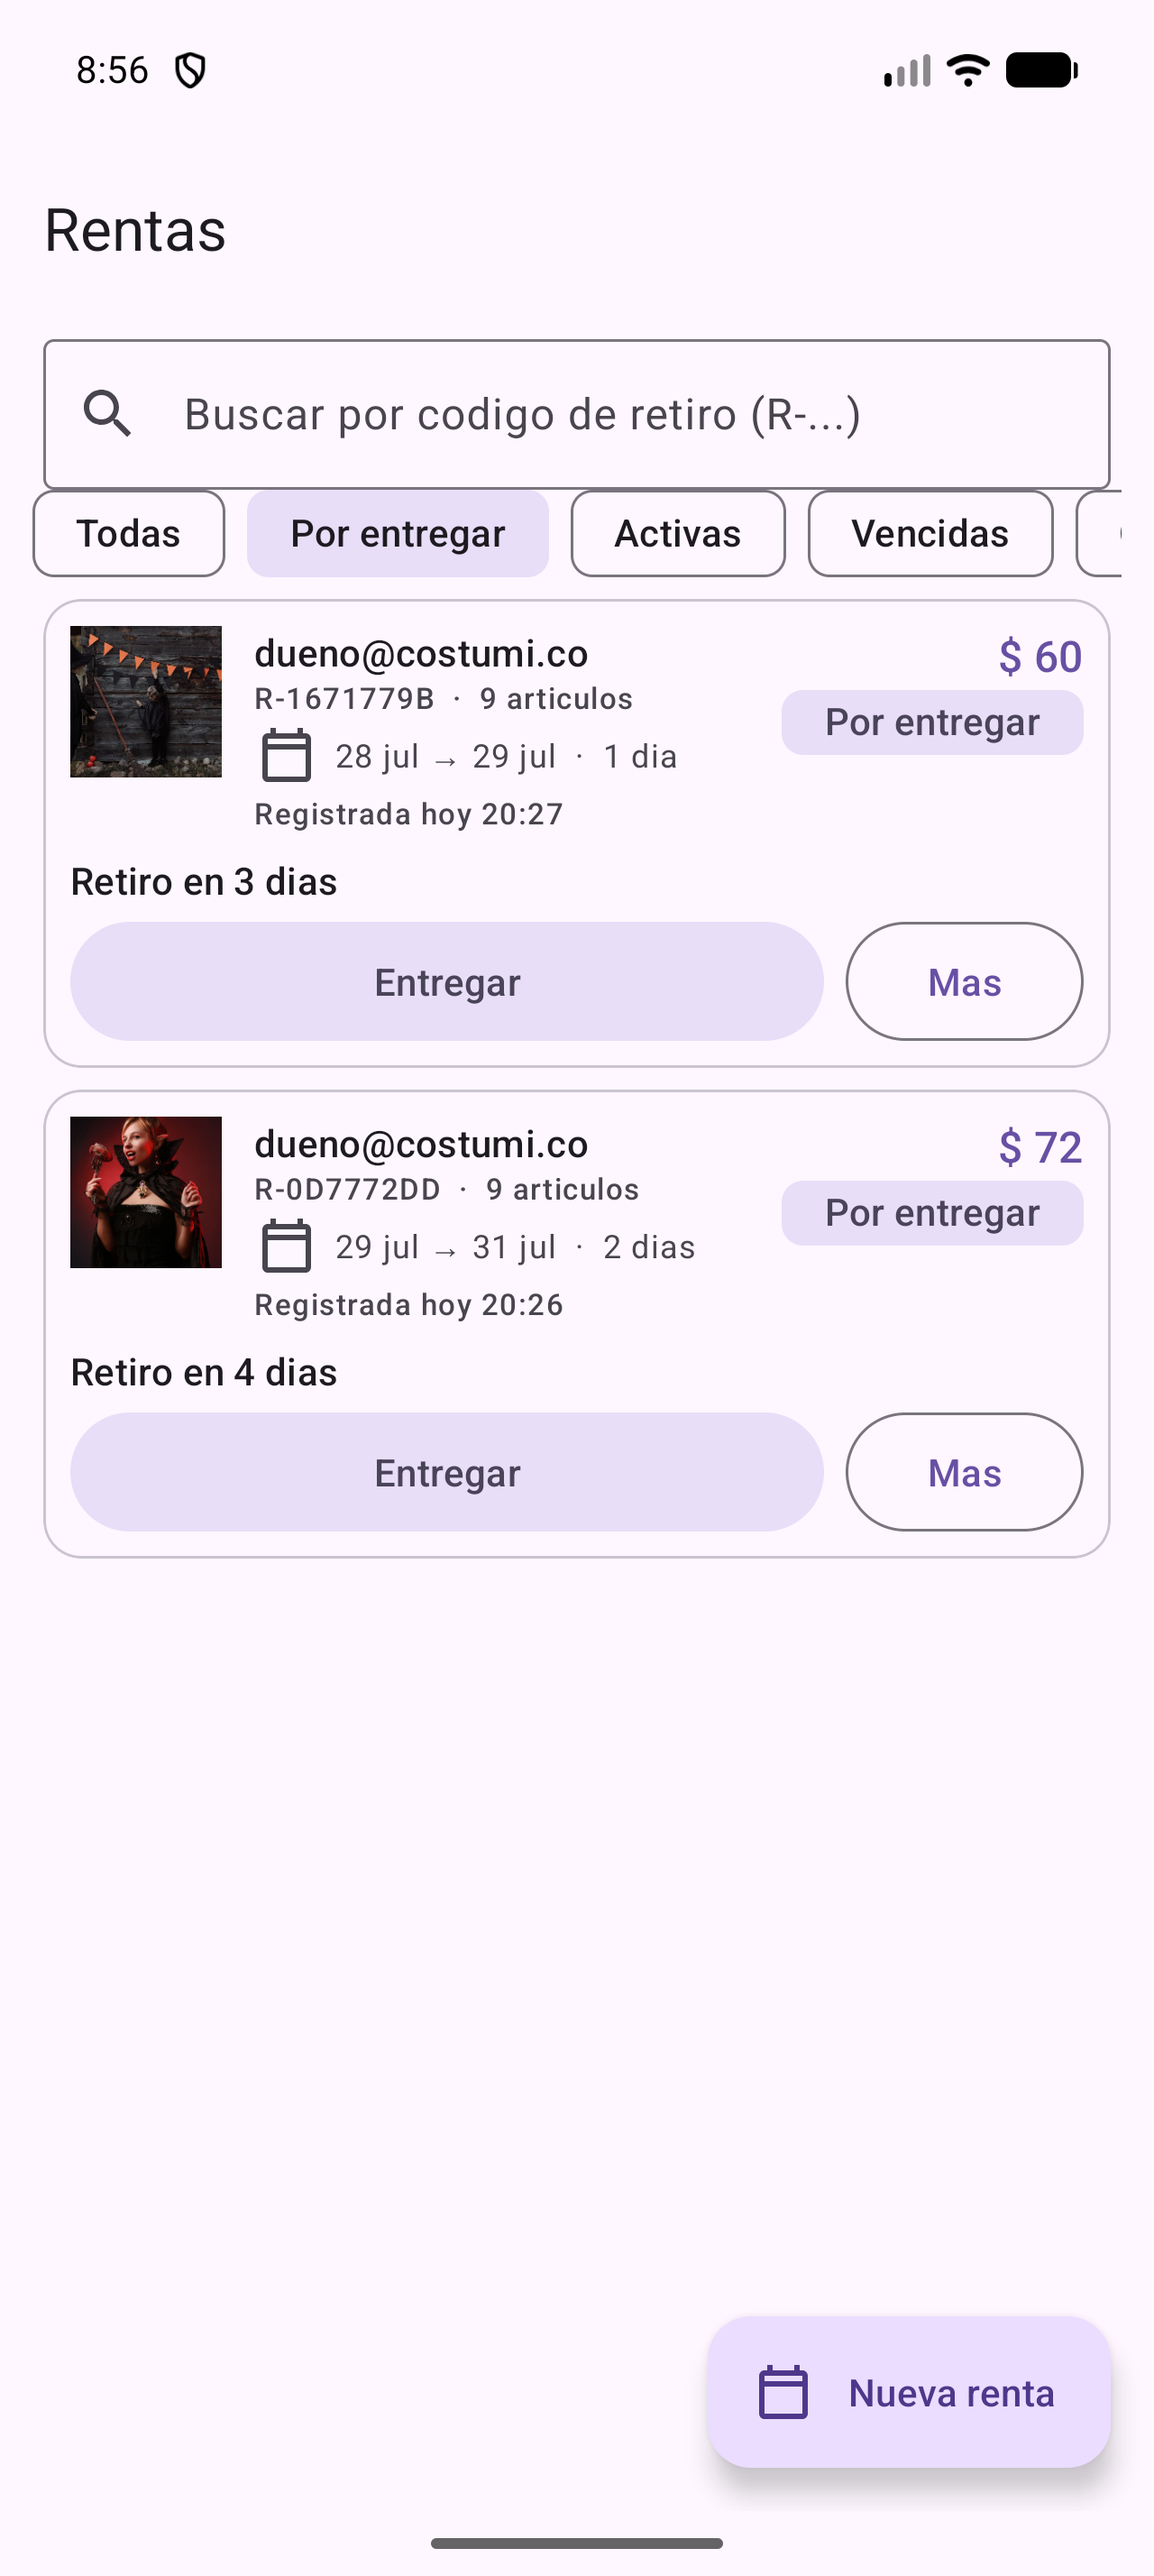
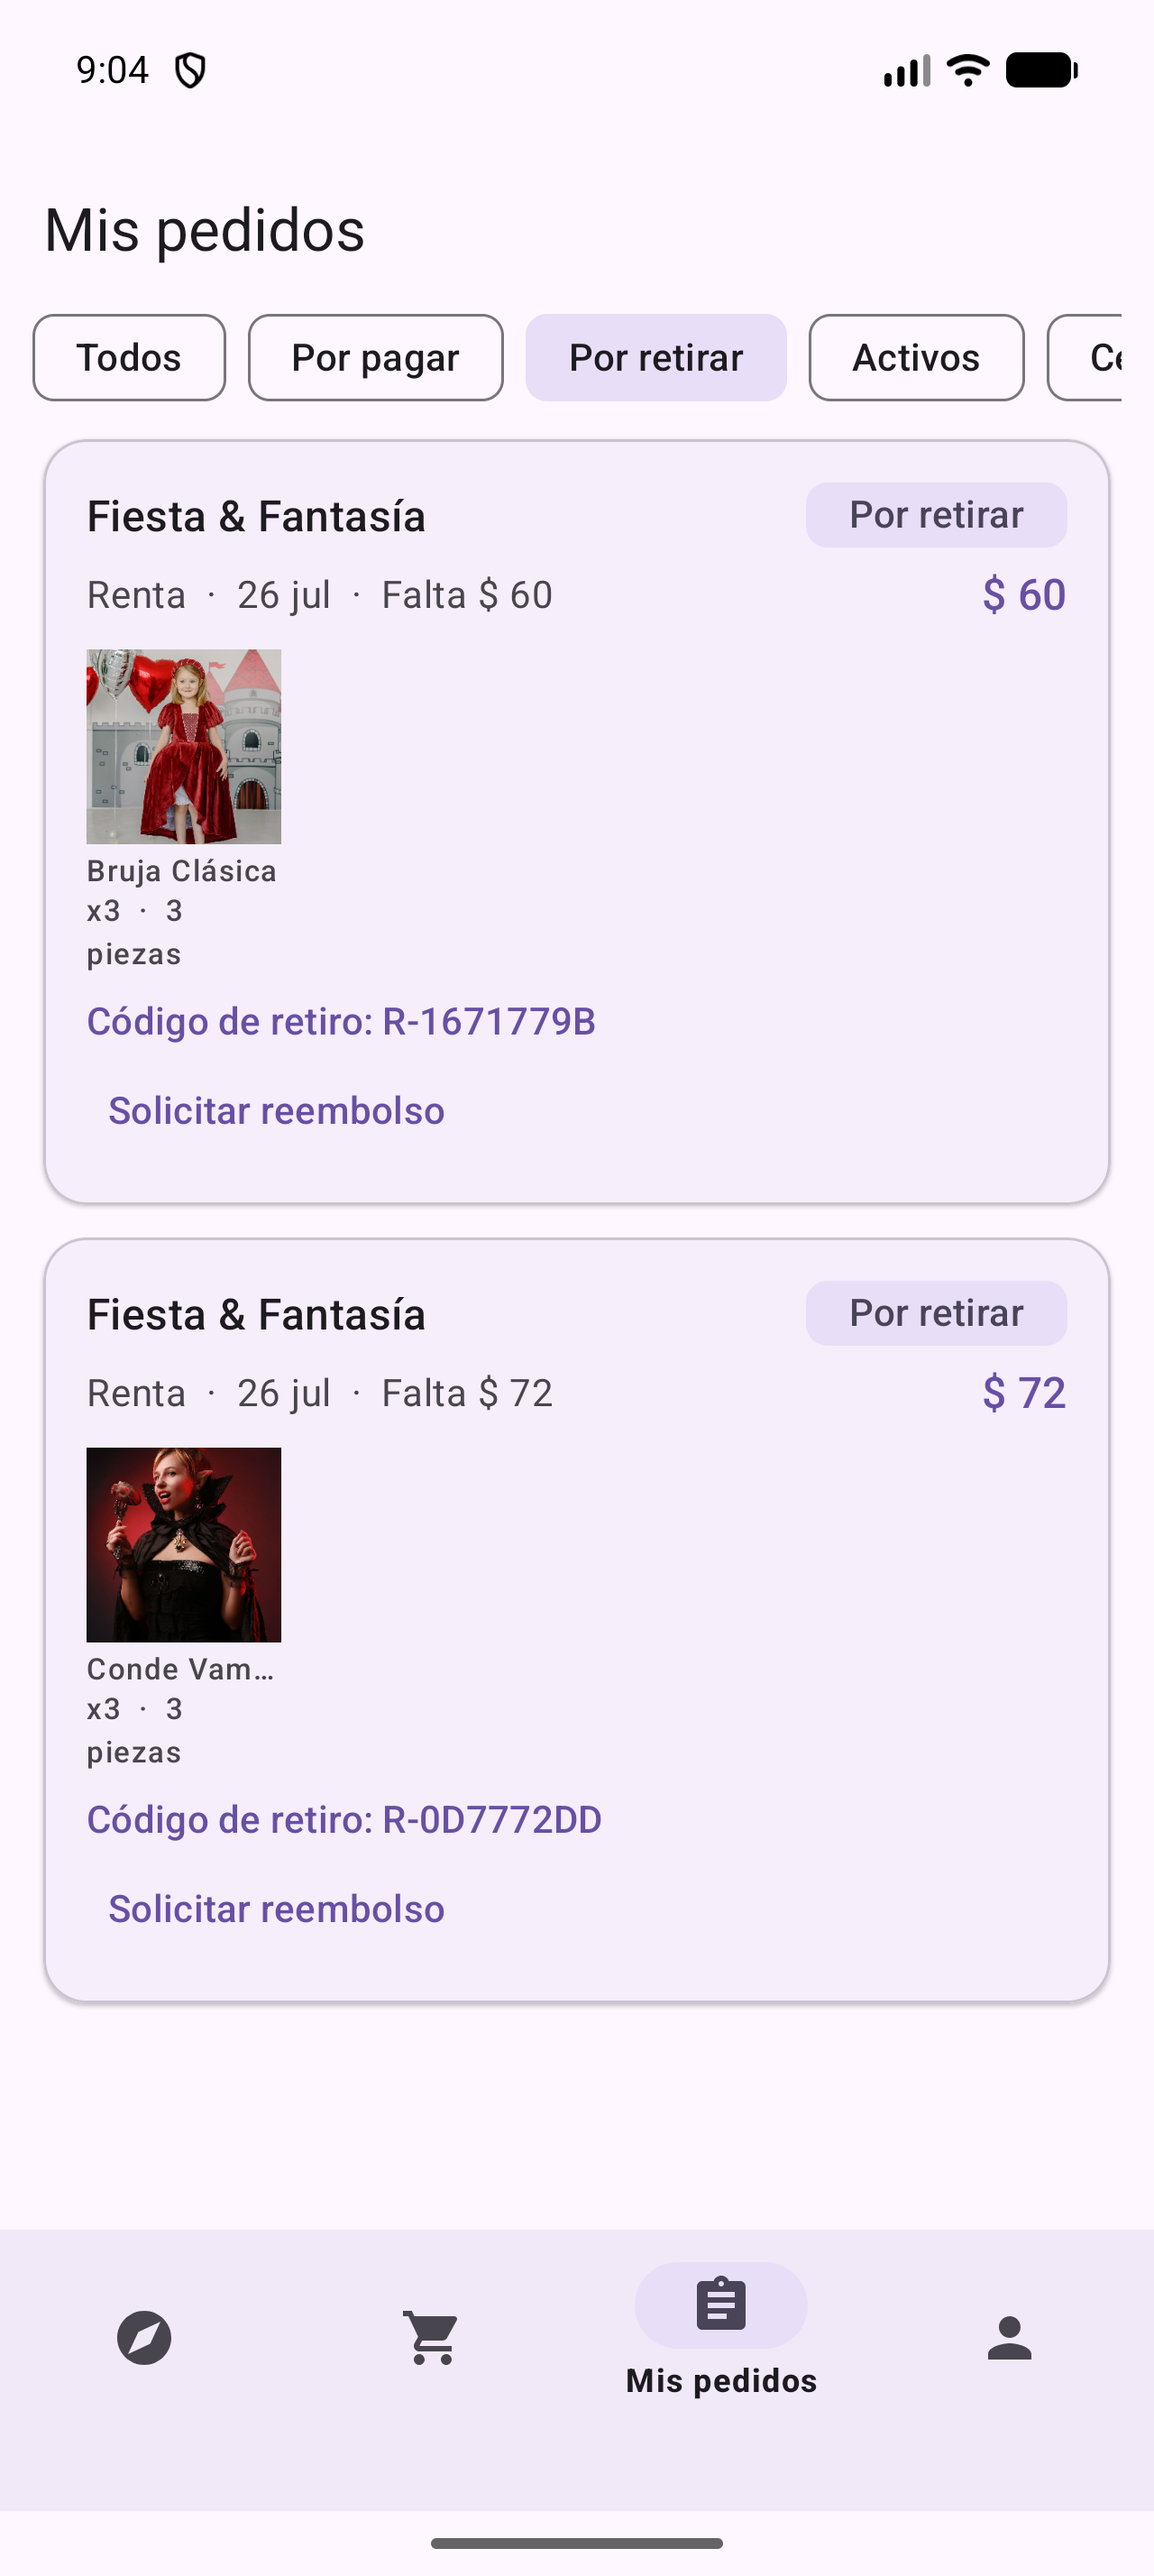
Fotos de sucursal, filtros de Mis pedidos y orden de devoluciones
Bug C: SucursalAdapter no cargaba la foto (placeholder gris) aunque la API
ya devuelve fotoUrl (verificado por API). Se cablea cargarFoto(fotoUrl).

Bug F: al elegir un filtro sin resultados en Mis pedidos, el StateView
(transparente) mostraba el vacio pero la lista NO se limpiaba, dejando las
filas del filtro anterior por detras ('Activos' mostrando 'Por retirar').
Se limpia el adapter cuando el estado no es Success.

Bug E: el historial de devoluciones se ordenaba por id (string) en vez de
por fecha. Ahora ordena por registradaEn DESC (mas reciente primero).
Ventas/rentas/historial ya venian DESC desde el backend.

Verificado en emulador: fotos de sucursal cargan desde S3; filtros de Mis
pedidos filtran y el vacio ya no deja filas viejas debajo.

diff --git a/app/src/main/java/com/costumi/app/ui/cliente/pedidos/MisPedidosFragment.kt b/app/src/main/java/com/costumi/app/ui/cliente/pedidos/MisPedidosFragment.kt
@@ -5,6 +5,7 @@ import android.view.View
 import androidx.fragment.app.Fragment
 import androidx.fragment.app.viewModels
 import com.costumi.app.R
+import com.costumi.app.core.UiState
 import com.costumi.app.core.comoPrecio
 import com.costumi.app.databinding.DialogMotivoBinding
 import com.costumi.app.databinding.FragmentMisPedidosBinding
@@ -30,6 +31,10 @@ class MisPedidosFragment : Fragment(R.layout.fragment_mis_pedidos) {
         pintarChipsFiltro()
 
         observar(vm.estado) { estado ->
+            // Si el filtro deja la lista vacia (o hay error/carga), hay que LIMPIAR las filas previas:
+            // el StateView es transparente y, sin esto, se veian las de antes debajo del "Todavia no
+            // tienes pedidos" (el filtro "Activos" mostrando "Por retirar" por detras).
+            if (estado !is UiState.Success) adapter.submitList(emptyList())
             binding.stateView.mostrar(estado, vacio = "Todavia no tienes pedidos.") { pedidos ->
                 adapter.submitList(pedidos)
             }

diff --git a/app/src/main/java/com/costumi/app/ui/gestion/sucursales/SucursalAdapter.kt b/app/src/main/java/com/costumi/app/ui/gestion/sucursales/SucursalAdapter.kt
@@ -9,6 +9,7 @@ import androidx.recyclerview.widget.DiffUtil
 import androidx.recyclerview.widget.ListAdapter
 import androidx.recyclerview.widget.RecyclerView
 import com.costumi.app.databinding.ItemSucursalBinding
+import com.costumi.app.ui.cargarFoto
 import com.costumi.apiclient.models.SucursalResponse
 
 /** Acción sobre una sucursal. */
@@ -28,6 +29,7 @@ class SucursalAdapter(
 
     inner class VH(private val binding: ItemSucursalBinding) : RecyclerView.ViewHolder(binding.root) {
         fun enlazar(s: SucursalResponse) {
+            binding.foto.cargarFoto(s.fotoUrl)
             binding.nombre.text = s.nombre.orEmpty()
             val dir = s.direccion?.takeIf { it.isNotBlank() }
             binding.direccion.isVisible = dir != null

diff --git a/app/src/main/java/com/costumi/app/ui/gestion/devoluciones/DevolucionesViewModel.kt b/app/src/main/java/com/costumi/app/ui/gestion/devoluciones/DevolucionesViewModel.kt
@@ -50,7 +50,8 @@ class DevolucionesViewModel @Inject constructor(
                         UiState.Empty
                     } else {
                         val info = repo.infoRentas() // rentaId → (código, cliente)
-                        val items = r.data.sortedByDescending { it.id?.toString() }.map { d ->
+                        // Recencia: más reciente primero por cuándo se REGISTRÓ la devolución, no por id.
+                        val items = r.data.sortedByDescending { it.registradaEn }.map { d ->
                             val ri = d.rentaId?.toString()?.let { info[it] }
                             DevolucionUi(d, codigoRetiro = ri?.first, clienteNombre = ri?.second)
                         }
